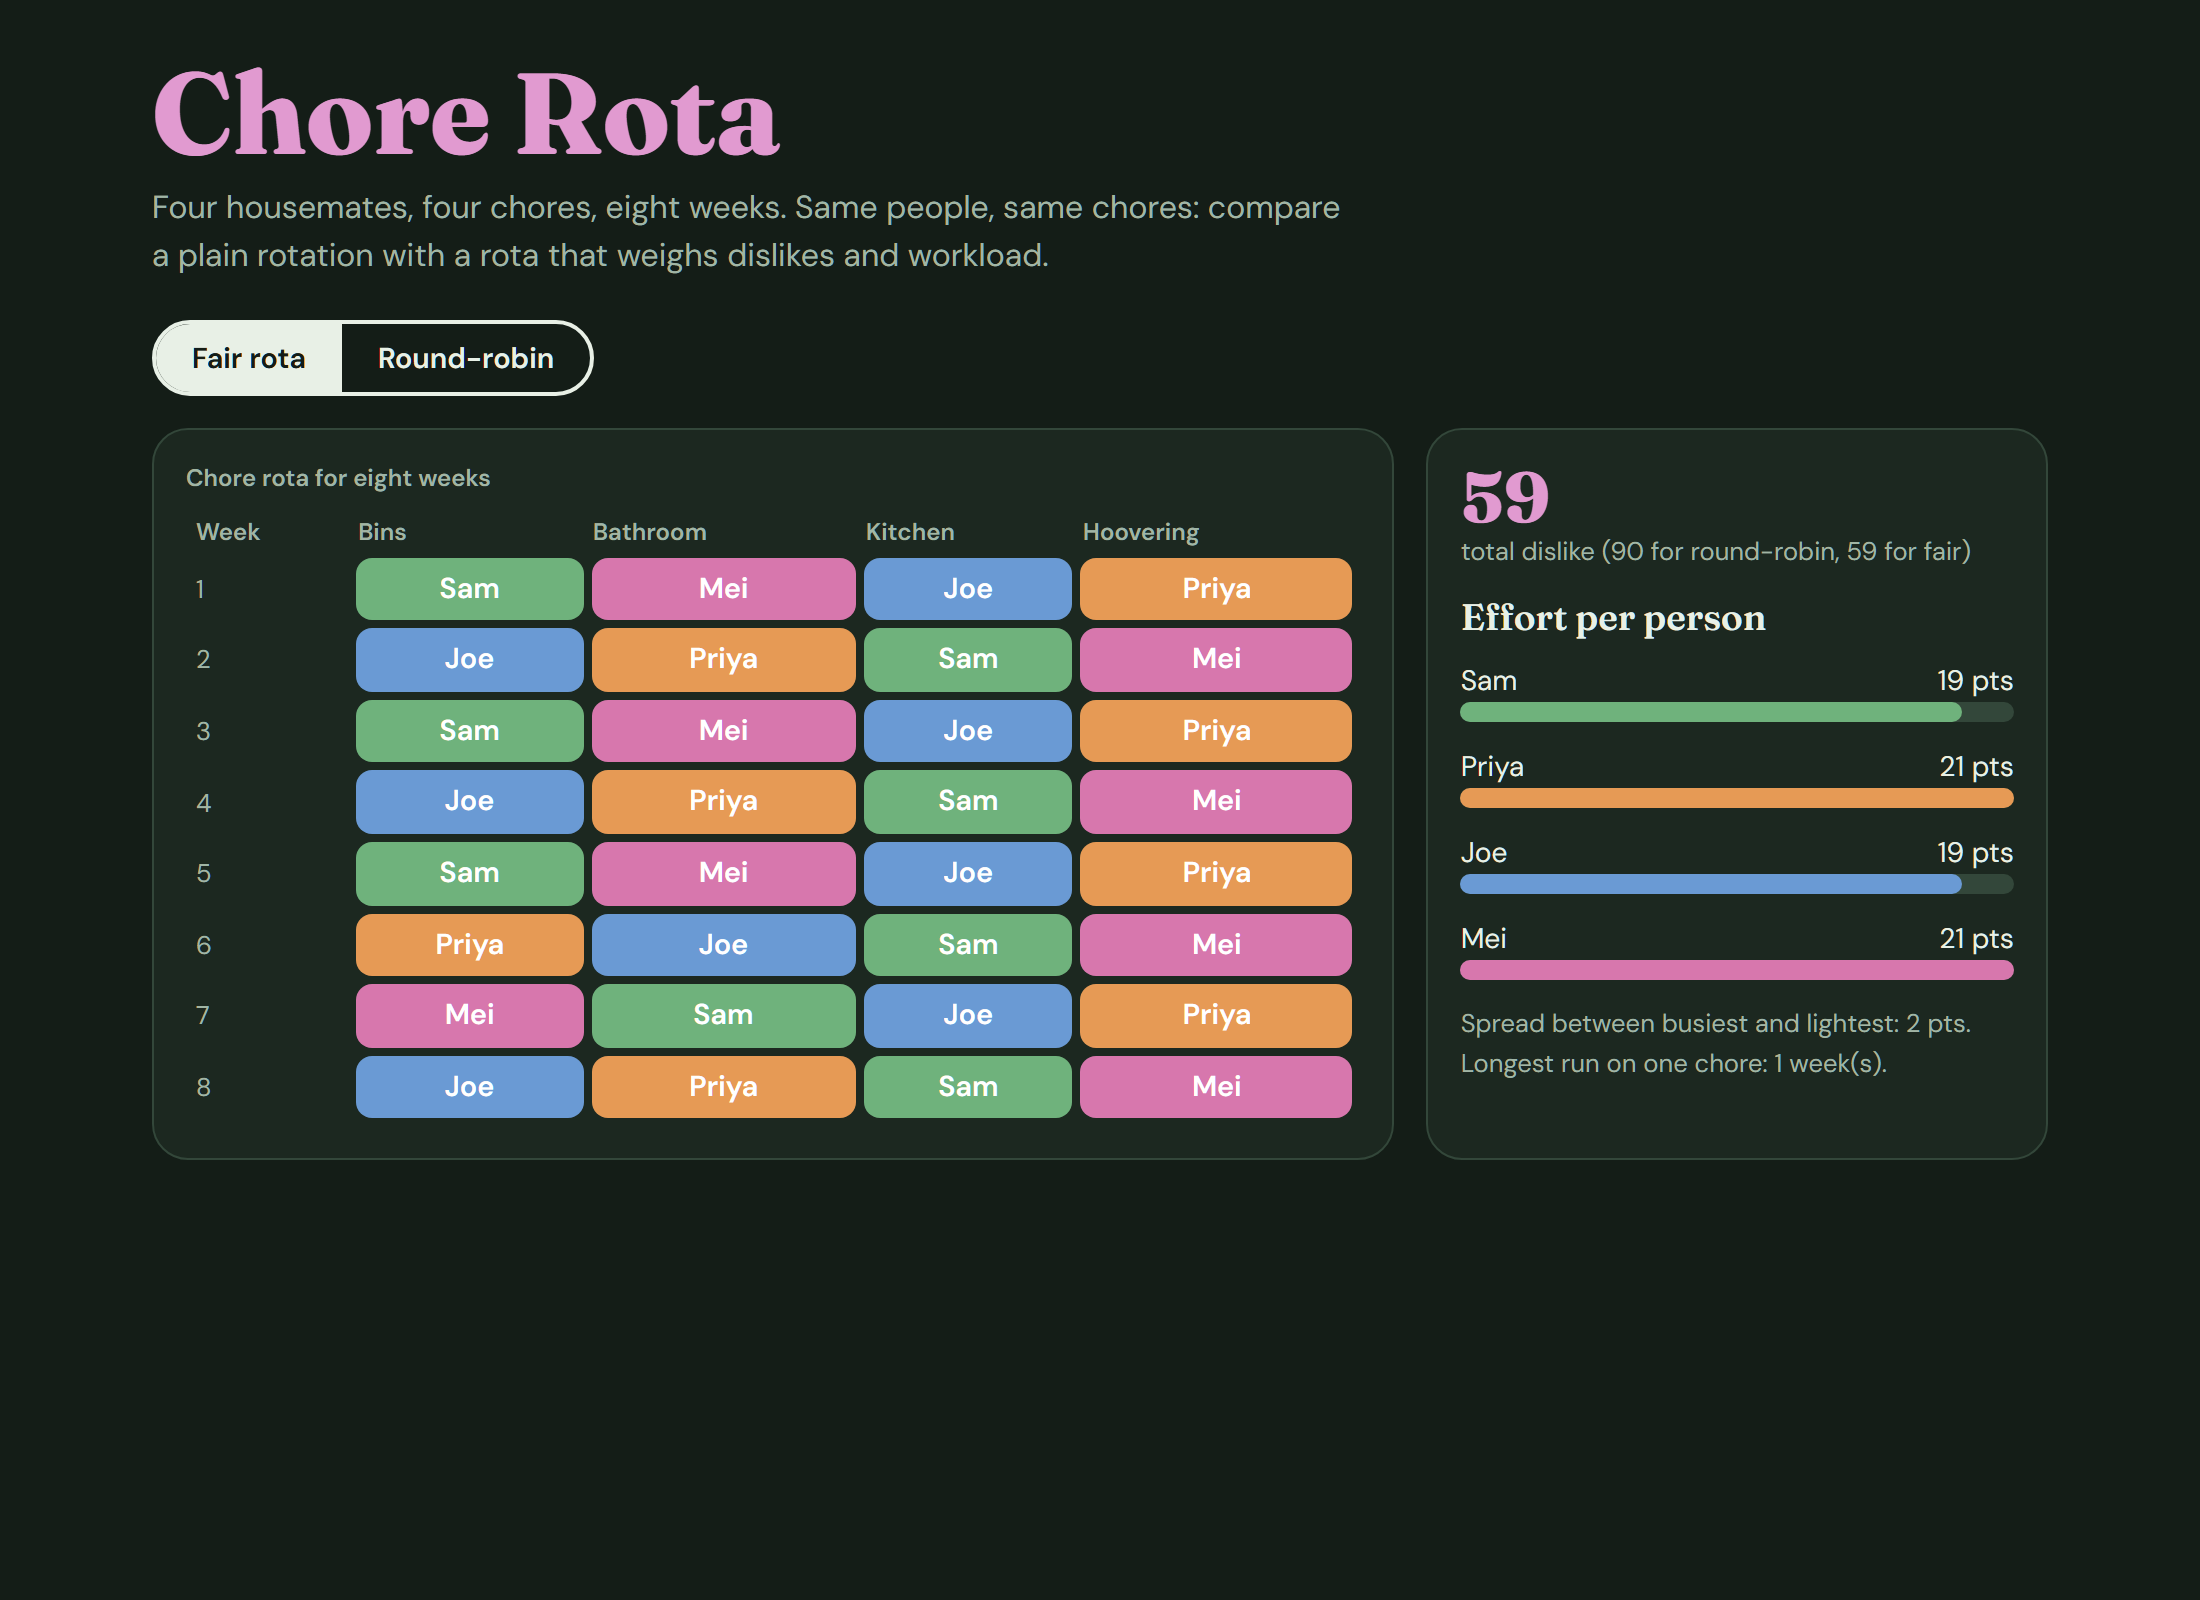
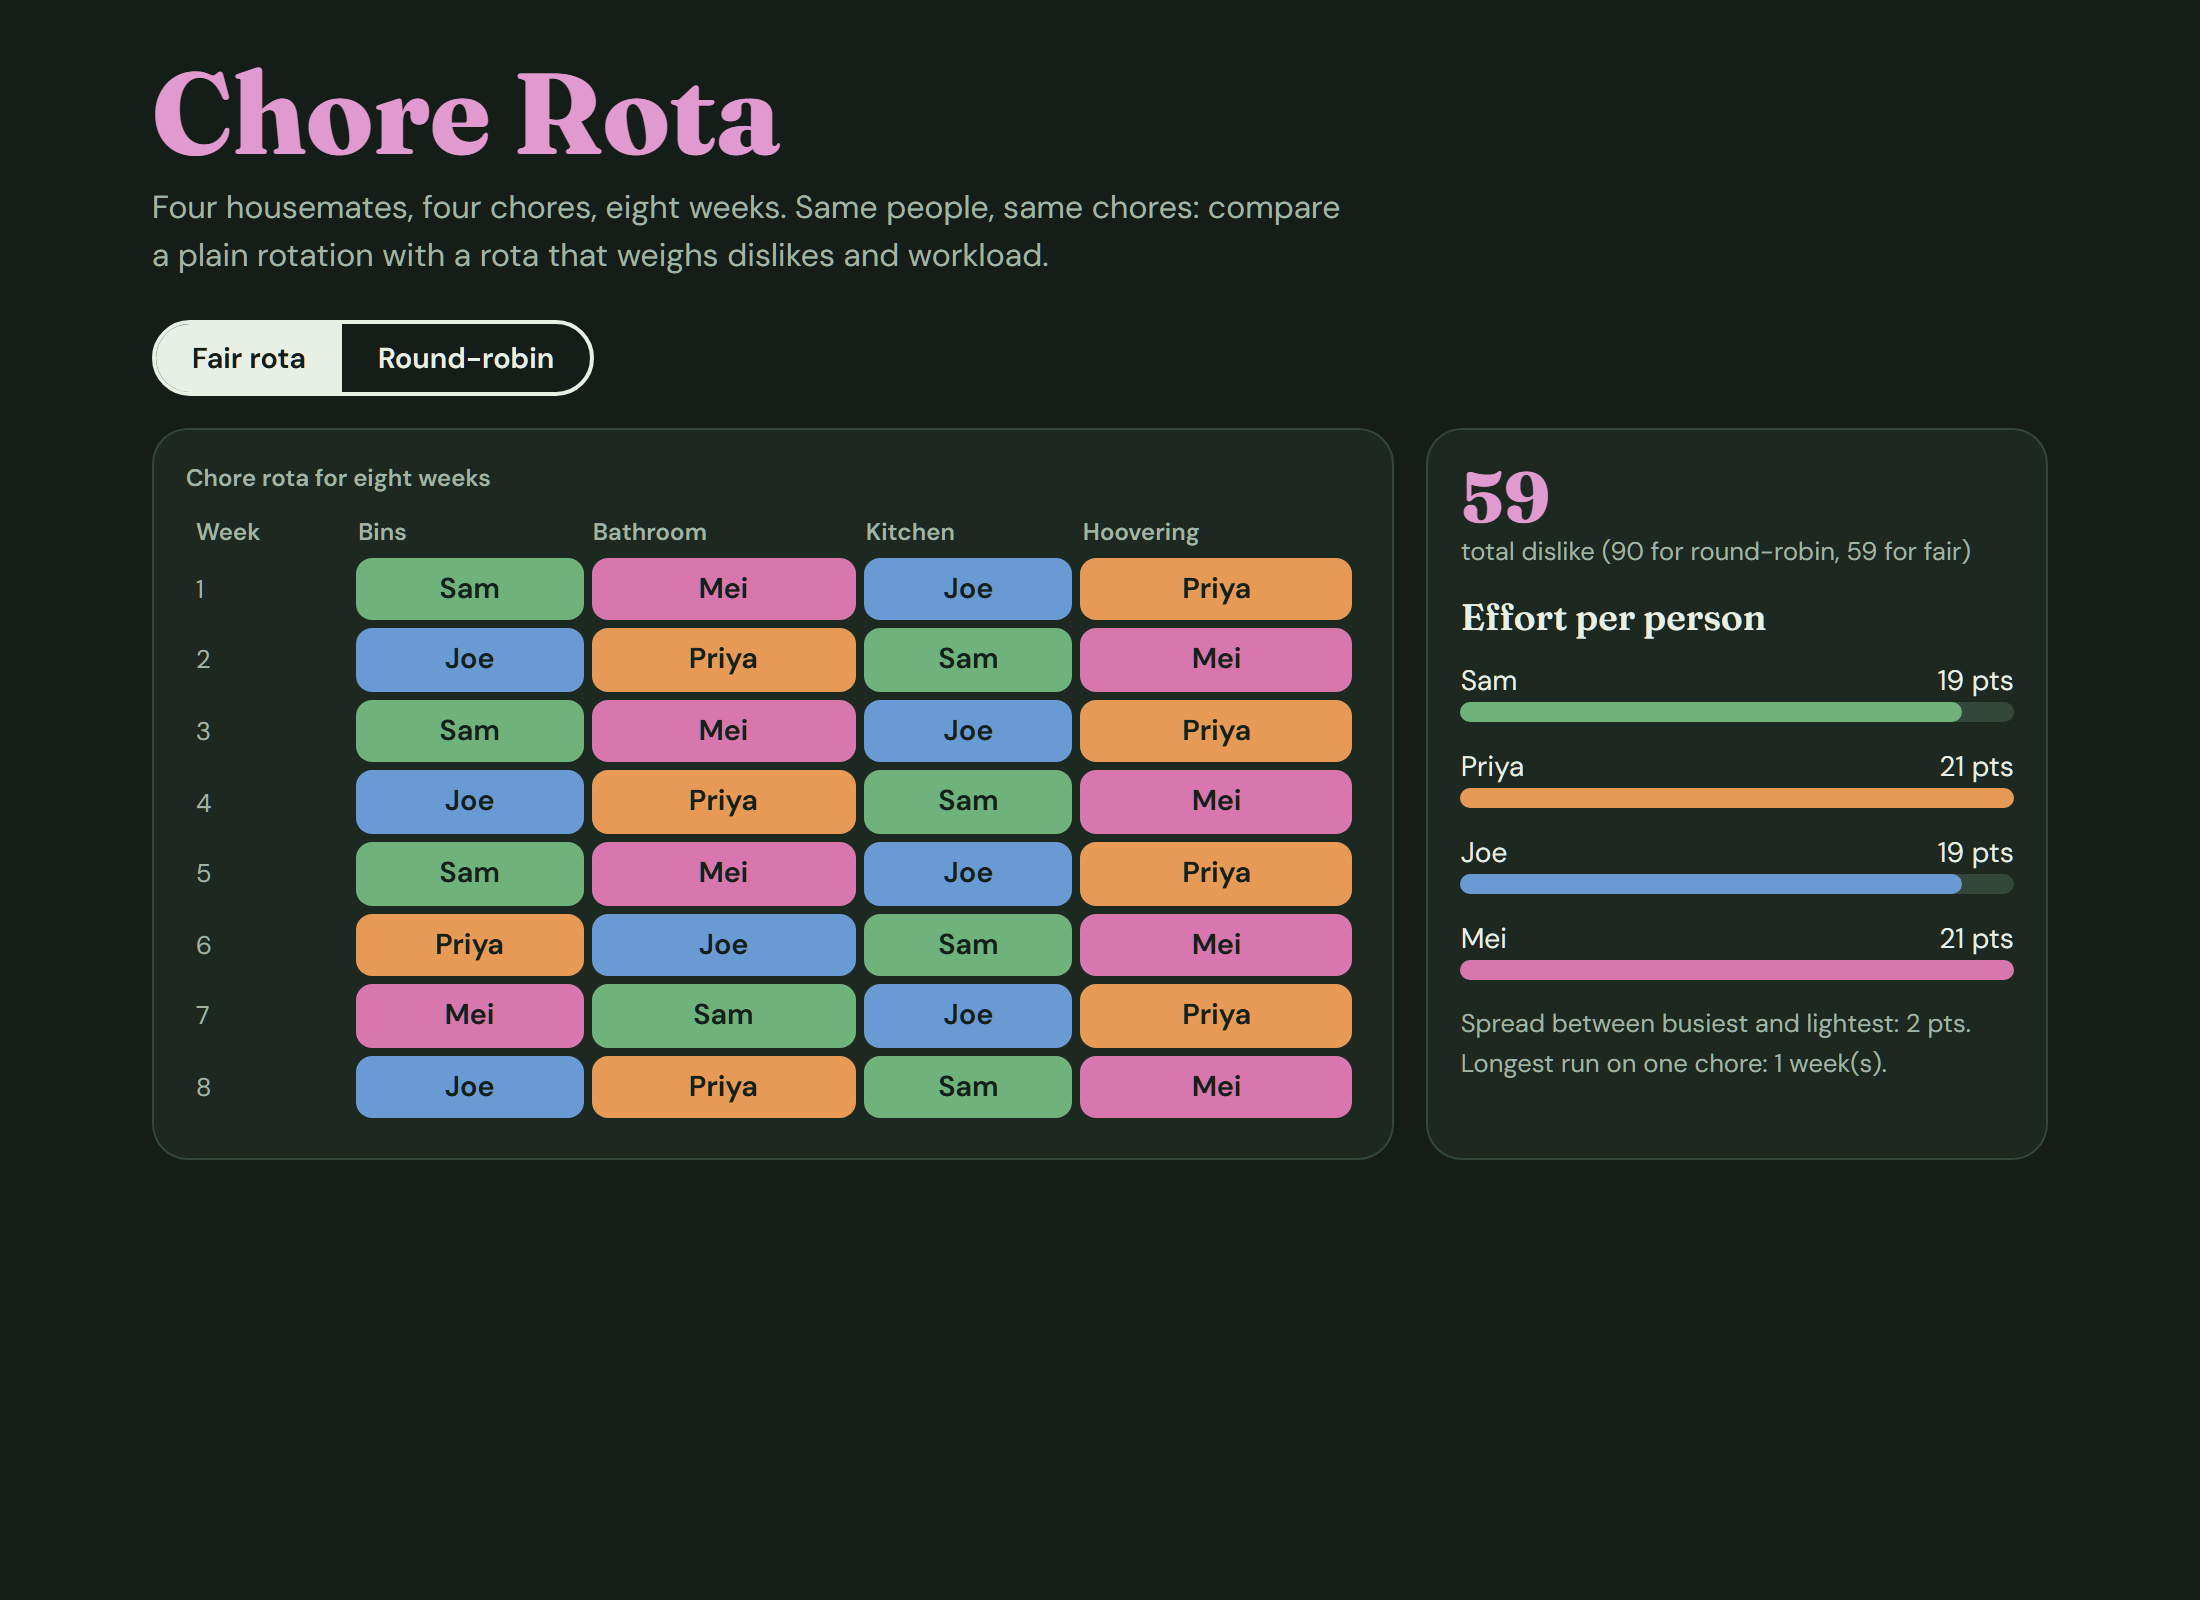
Fix chip contrast: chore-rota-planner

diff --git a/static/index.html b/static/index.html
@@ -1,8 +1,8 @@
 <!doctype html><html lang="en"><head><meta charset="utf-8"><meta name="viewport" content="width=device-width,initial-scale=1"><title>Chore Rota</title>
 <link href="https://fonts.googleapis.com/css2?family=Fraunces:opsz,wght@9..144,600;9..144,800&family=DM+Sans:wght@400;600&display=swap" rel="stylesheet">
 <style>
-:root{--bg:#e9efe6;--card:#f8faf5;--ink:#1f2e24;--mute:#5d6f61;--plum:#6b2d5c;--line:#c7d3c3;--p0:#4f8a5b;--p1:#c9772e;--p2:#3b6fa8;--p3:#a8457d}
-@media(prefers-color-scheme:dark){:root{--bg:#141d17;--card:#1c2820;--ink:#e8f0e6;--mute:#a1b5a5;--plum:#e19ad0;--line:#33473a;--p0:#6fb27c;--p1:#e69a55;--p2:#6a9ad4;--p3:#d777ad}}
+:root{--bg:#e9efe6;--card:#f8faf5;--ink:#1f2e24;--mute:#5d6f61;--plum:#6b2d5c;--line:#c7d3c3;--p0:#3d7048;--p1:#a4561a;--p2:#3b6fa8;--p3:#a8457d;--ci:#fff}
+@media(prefers-color-scheme:dark){:root{--bg:#141d17;--card:#1c2820;--ink:#e8f0e6;--mute:#a1b5a5;--plum:#e19ad0;--line:#33473a;--p0:#6fb27c;--p1:#e69a55;--p2:#6a9ad4;--p3:#d777ad;--ci:#14201a}}
 *{box-sizing:border-box}body{margin:0;background:var(--bg);color:var(--ink);font:16px/1.5 "DM Sans",sans-serif}
 main{max-width:980px;margin:auto;padding:28px 16px 56px}
 h1{font:800 clamp(2.2rem,8vw,3.6rem)/1 Fraunces,serif;margin:0 0 6px;color:var(--plum)}.sub{color:var(--mute);margin:0 0 20px;max-width:55ch}
@@ -11,7 +11,7 @@ h1{font:800 clamp(2.2rem,8vw,3.6rem)/1 Fraunces,serif;margin:0 0 6px;color:var(-
 .layout{display:grid;grid-template-columns:2fr 1fr;gap:16px}@media(max-width:760px){.layout{grid-template-columns:1fr}}
 .card{background:var(--card);border-radius:18px;padding:16px;border:1px solid var(--line);overflow-x:auto}
 table{border-collapse:separate;border-spacing:4px;width:100%;font-size:.9rem}th{font:600 .75rem "DM Sans";color:var(--mute);text-align:left}
-td.w{color:var(--mute);font-size:.8rem}td.c{border-radius:8px;padding:5px 8px;color:#fff;font-weight:600;text-align:center}
+td.w{color:var(--mute);font-size:.8rem}td.c{border-radius:8px;padding:5px 8px;color:var(--ci);font-weight:600;text-align:center}
 h2{font:600 1.15rem Fraunces,serif;margin:0 0 10px}.row{margin-bottom:12px}.row div{display:flex;justify-content:space-between;font-size:.88rem}
 .bar{height:10px;border-radius:5px;background:var(--line)}.bar i{display:block;height:100%;border-radius:5px}
 .big{font:800 2.2rem/1 Fraunces,serif;color:var(--plum)}.k{color:var(--mute);font-size:.8rem;margin-bottom:12px}
